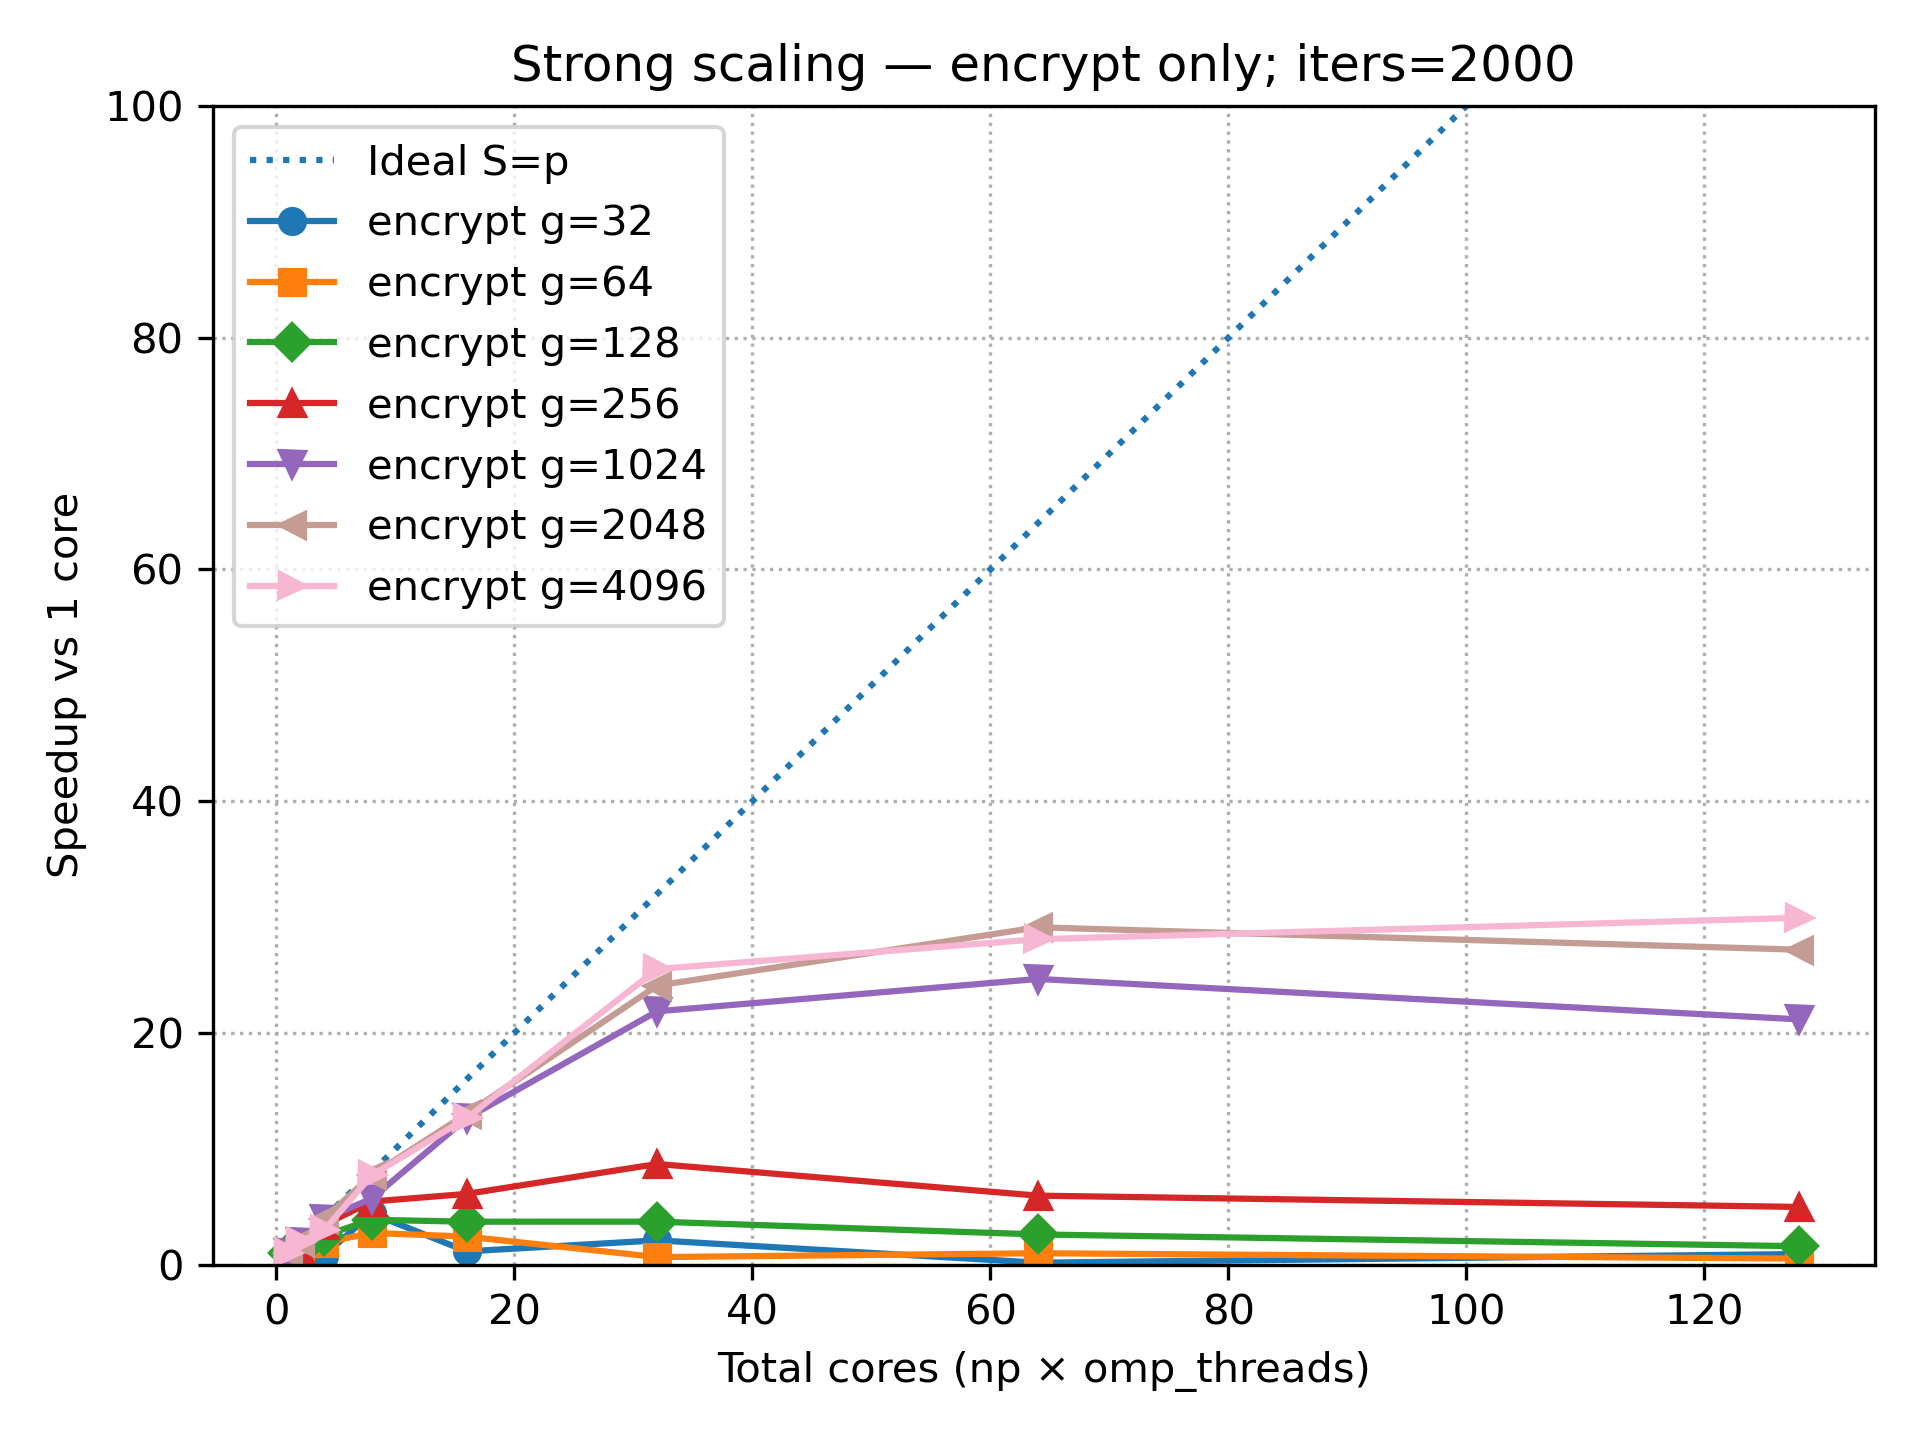
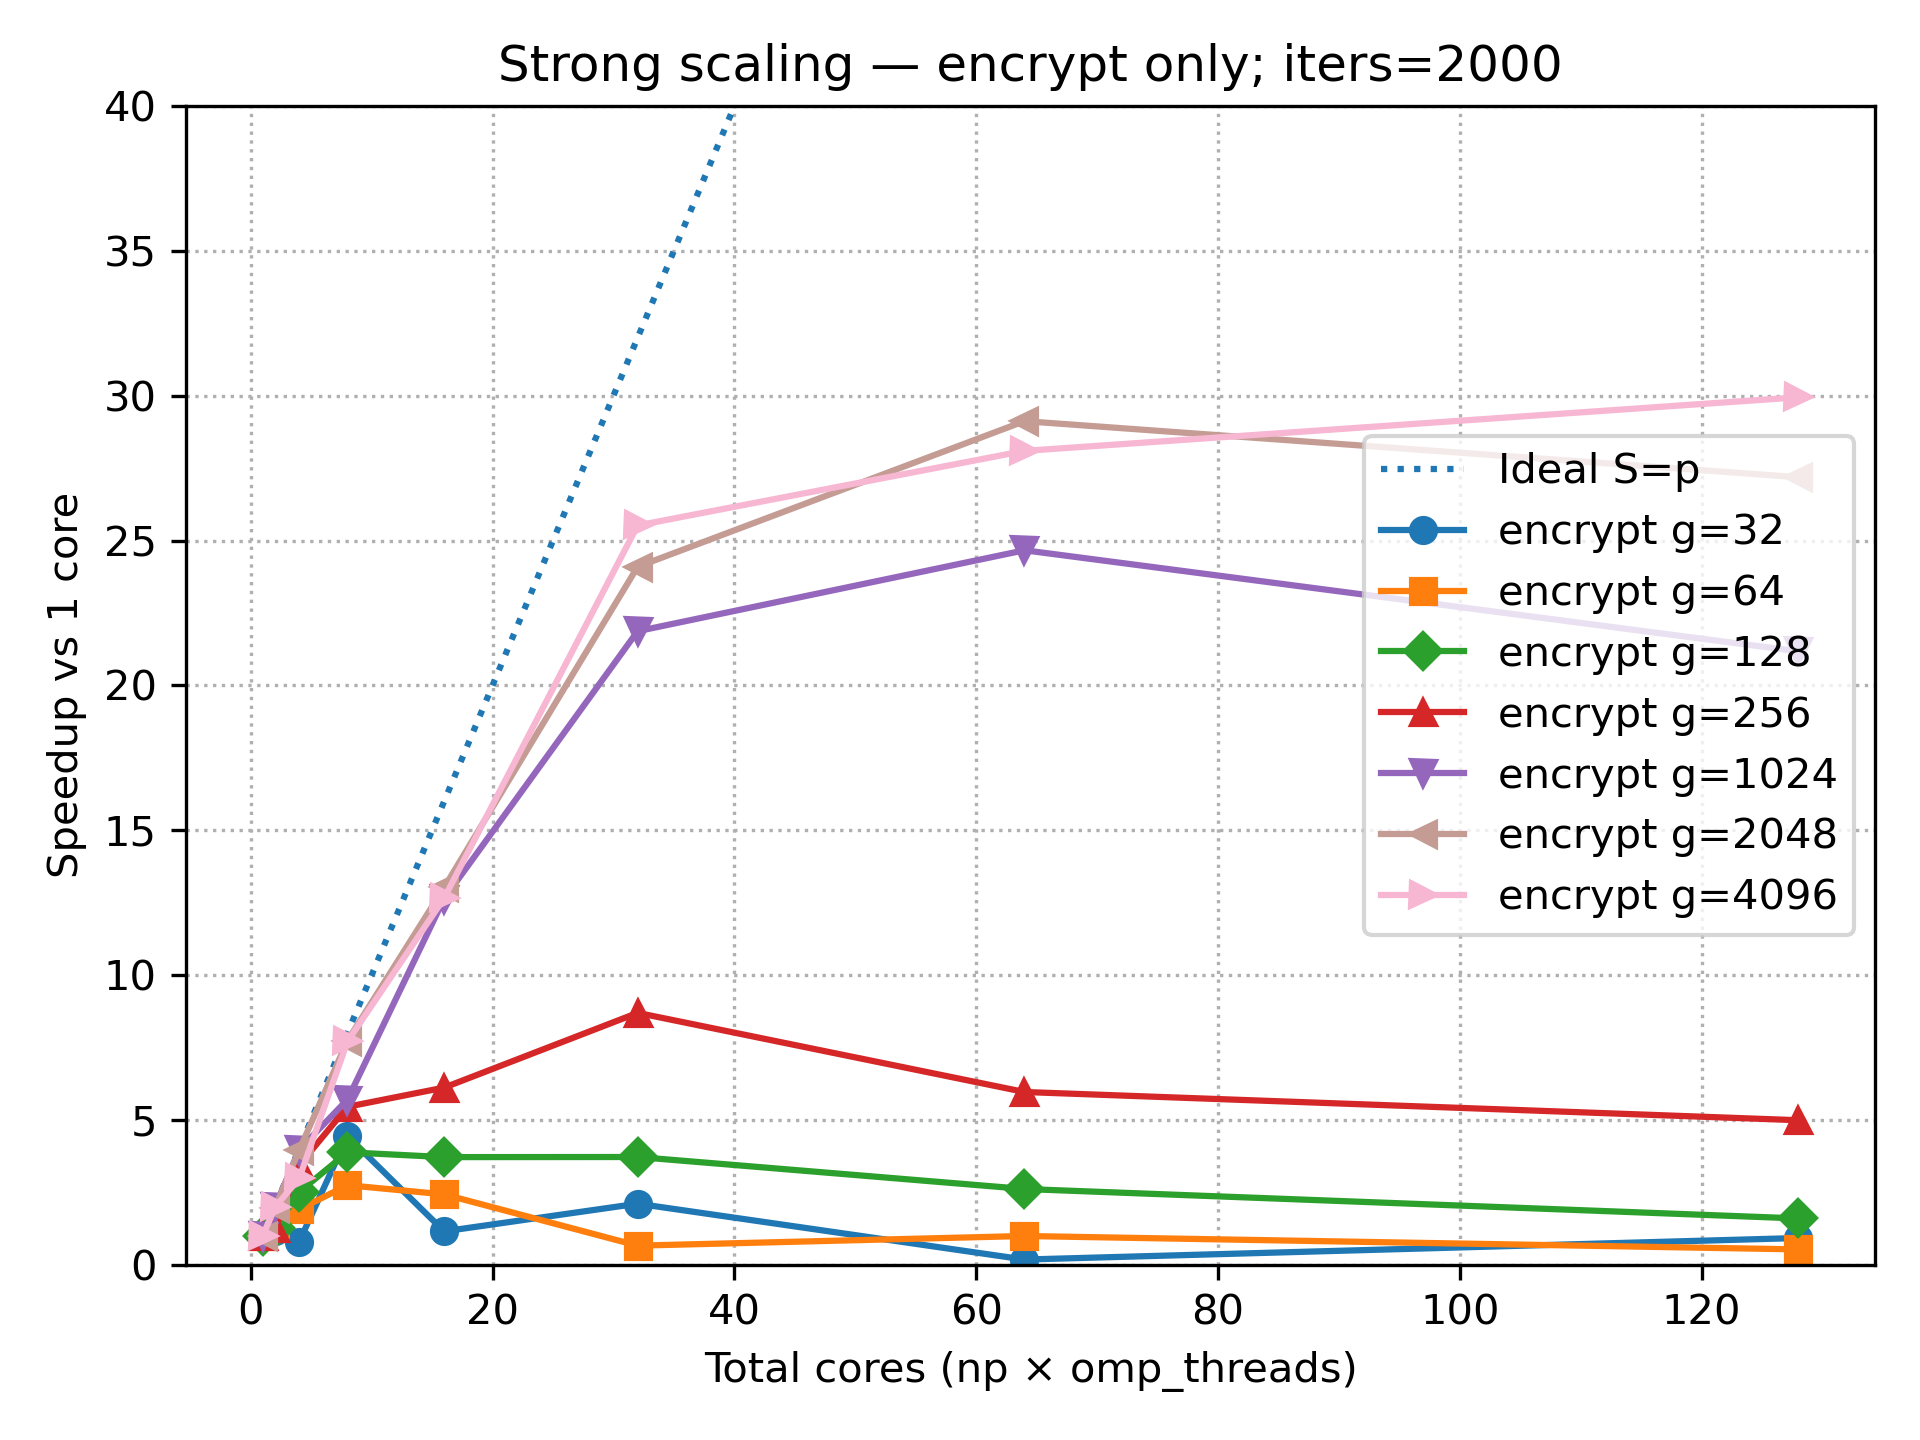
Adjsuted scales (strong_scaling)

diff --git a/benchmarking_visualization.py b/benchmarking_visualization.py
@@ -131,7 +131,7 @@ def strong_scaling_combined(data, grids, num_itrs):
     ax.set_xlabel("Total cores (np × omp_threads)")
     ax.set_ylabel("Speedup vs 1 core")
     ax.set_title(f"Strong scaling — encrypt only; iters={num_itrs}")
-    ax.set_ylim(0, 100)  # Adjust as needed
+    ax.set_ylim(0, 40)  # Adjust as needed
     ax.legend()
     ax.grid(True, linestyle=":")
     plt.tight_layout()
